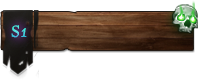
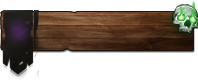
10:45 20/10/2563

diff --git a/index.html b/index.html
@@ -151,7 +151,8 @@
                                 <div class="clearfix">&nbsp;</div>  
                                 <div class="clearfix">&nbsp;</div>  
 
-                                <img src="images/News.png" class="img-fluid d-block mx-auto"> 
+                                <img src="images/img-p.png" class="img-fluid d-block mx-auto"> 
+                                <p class="img-p">news</p>
 
                                 <div class="col box-new">
                            
@@ -234,15 +235,20 @@
                                 </div>
  
 
-                                <img src="images/Hot-item.png" class="img-fluid d-block mx-auto">  
+                               
+
+                                <img src="images/img-p.png" class="img-fluid d-block mx-auto"> 
+                                <p class="img-p">free code item</p>
 
                                 <div class="col hot-item">
                                     <div class="clearfix">&nbsp;</div>  
                                     <div class="clearfix">&nbsp;</div>  
                                     <div class="clearfix">&nbsp;</div>  
                                 </div>
+ 
+                                <img src="images/img-p.png" class="img-fluid d-block mx-auto"> 
+                                <p class="img-p">wallpaper</p>
 
-                                <img src="images/waal.png" class="img-fluid d-block mx-auto">  
 
                                 <div class="col box-new">
                            
@@ -371,7 +377,8 @@
                         <h3>เซิฟเวอร์ล่าสุด</h3>
                         <a href="#">
                             <div class="sev s2">
-                                Server Luffy
+                                <p>t2</p>
+                                text
                             </div>
                         </a>
                         <div class="clearfix">&nbsp;</div>
@@ -381,14 +388,16 @@
                             <div class="col-6">
                                 <a href="#">
                                     <div class="sev s1">
-                                        Server Luffy
+                                        <p>t1</p>
+                                        text
                                     </div>
                                 </a>
                             </div>
                             <div class="col-6">
                                 <a href="#">
                                     <div class="sev s1">
-                                        Server Luffy
+                                        <p>s1</p>
+                                        text
                                     </div>
                                 </a>
                             </div>
@@ -402,14 +411,16 @@
                             <div class="col-6">
                                 <a href="#">
                                     <div class="sev s1">
-                                        Server Luffy
+                                        <p>s1</p>
+                                        text
                                     </div>
                                 </a>
                             </div>
                             <div class="col-6">
                                 <a href="#">
                                     <div class="sev s1-o">
-                                        Server Luffy
+                                        <p>s1</p>
+                                        text
                                     </div>
                                 </a>
                             </div>
@@ -418,14 +429,16 @@
                             <div class="col-6">
                                 <a href="#">
                                     <div class="sev s2">
-                                        Server Luffy
+                                        <p>s2</p>
+                                        text
                                     </div>
                                 </a>
                             </div>
                             <div class="col-6">
                                 <a href="#">
                                     <div class="sev s2-o">
-                                        Server Luffy
+                                        <p>s2</p>
+                                        text
                                     </div>
                                 </a>
                             </div>
@@ -433,17 +446,21 @@
                             <div class="col-6">
                                 <a href="#">
                                     <div class="sev s2">
-                                        Server Luffy
+                                        <p>s2</p>
+                                        text
                                     </div>
                                 </a>
                             </div>
                             <div class="col-6">
                                 <a href="#">
                                     <div class="sev s2-o">
-                                        Server Luffy
+                                        <p>s2</p>
+                                        text
                                     </div>
                                 </a>
                             </div>
+
+                            
 
 
                         </div>

diff --git a/css/main.css b/css/main.css
@@ -106,6 +106,7 @@ body{
 }
 .menu-m ul li a:hover{ 
   text-shadow: 10px 15px 45px rgba(255, 139, 46, 1); 
+  transition: all 0.15s ease-in-out;
 }
 
 /*.bg-m1{
@@ -670,7 +671,16 @@ a.forget{
   margin-right: -50%;
   transform: translate(-50%, -50%);
   z-index: 1040;
+  opacity: .85;
+  transition: all 0.15s ease-in-out;
 }
+
+.set-aa:hover{   
+  opacity: 1;
+  transition: all 0.15s ease-in-out;
+}
+
+
 .modal-content{
   background-color: transparent;
 }
@@ -682,7 +692,27 @@ a.forget{
 }
 .modal-body .server-m{
   padding: 20px 60px;
+  height: 620px;
+  overflow: auto;
 }
+
+.modal-body .server-m::-webkit-scrollbar {
+  width: 20px;
+}
+.modal-body .server-m::-webkit-scrollbar-track {
+  background: rgba(31,20,9,.85); 
+}
+.modal-body .server-m::-webkit-scrollbar-thumb {
+  background: #80694b; 
+  border: solid 2px #e5c892;
+}
+.modal-body .server-m::-webkit-scrollbar-thumb:hover {
+  background: #80694b; 
+  border: solid 2px #e5c892;
+}
+
+
+
 .modal-body .server-m h3{
   font-family: pslkanda-moextra;
   color: #c6aa8d; 
@@ -698,6 +728,7 @@ a.forget{
   height: 80px;
   background-repeat: no-repeat;
   background-size: 198px  80px;
+  text-transform: capitalize;
 }
 
 
@@ -709,10 +740,10 @@ a.forget{
 }
 
 .s2{
-  background-image: url(../images/s2-1.png);
+  background-image: url(../images/s1-1.png);
 }
 .s2:hover{
-  background-image: url(../images/s2-2.png);  
+  background-image: url(../images/s1-2.png);  
 }
 .s1-o{
   background-image: url(../images/s1-1o.png);
@@ -722,8 +753,76 @@ a.forget{
 }
 
 .s2-o{
-  background-image: url(../images/s2-1o.png);
+  background-image: url(../images/s1-1o.png);
 }
 .s2-o:hover{
-  background-image: url(../images/s2-2o.png);  
+  background-image: url(../images/s1-2o.png);  
+}
+
+
+.s1 p{
+  position: absolute;
+  list-style: 0;
+  margin-left: -40px;
+  font-size: 20px;
+  background: -webkit-linear-gradient(#4decd8, #41a5c7);
+  -webkit-background-clip: text;
+  -webkit-text-fill-color: transparent;
+  text-transform: uppercase; 
+  font-family: CelestiaItalic; 
+  font-weight: bold;
+  letter-spacing: 0px;
+}
+.s1-o p{
+  position: absolute;
+  list-style: 0;
+  margin-left: -40px;
+  font-size: 20px;
+  background: -webkit-linear-gradient(#4decd8, #41a5c7);
+  -webkit-background-clip: text;
+  -webkit-text-fill-color: transparent;
+  text-transform: uppercase; 
+  font-family: CelestiaItalic; 
+  font-weight: bold;
+  letter-spacing: 0px;
+}
+
+.s2 p{
+  position: absolute;
+  list-style: 0;
+  margin-left: -40px;
+  font-size: 20px;
+  background: -webkit-linear-gradient(#fff, #e3c8cb);
+  -webkit-background-clip: text;
+  -webkit-text-fill-color: transparent;
+  text-transform: uppercase; 
+  font-family: CelestiaItalic; 
+  font-weight: bold;
+  letter-spacing: 0px;
+}
+
+.s2-o p{
+  position: absolute;
+  list-style: 0;
+  margin-left: -40px;
+  font-size: 20px;
+  background: -webkit-linear-gradient(#fff, #e3c8cb);
+  -webkit-background-clip: text;
+  -webkit-text-fill-color: transparent;
+  text-transform: uppercase; 
+  font-family: CelestiaItalic; 
+  font-weight: bold;
+  letter-spacing: 0px;
+}
+
+
+
+
+.img-p{
+  color: #cfa57a;
+  font-size: 25px;
+  font-family: CelestiaItalic;
+  text-transform: uppercase;
+  text-align: center;
+  margin-top: -66px;
 }
